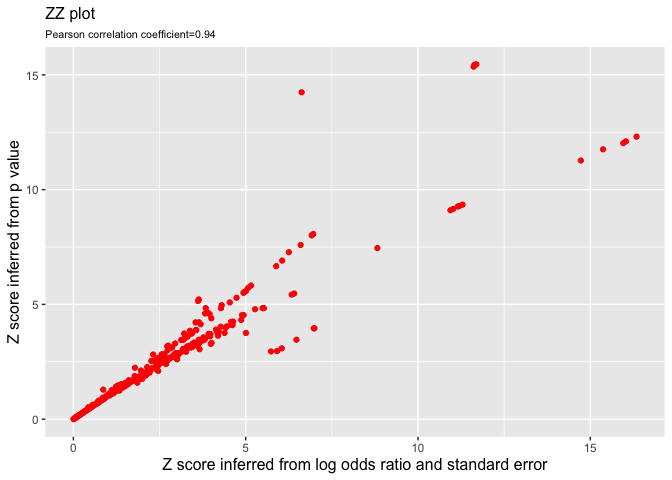
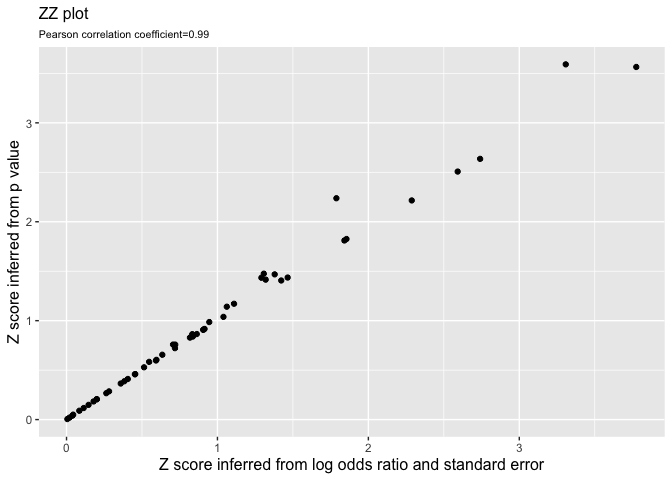
updated readme

diff --git a/README.md b/README.md
@@ -8,11 +8,12 @@
 <!-- badges: end -->
 
 mrQC is an R package for checking the accuracy of meta- and summary-data
-for outcome traits prior to their use in Mendelian randomisation
-analyses. For example, the package provides tools for checking that the
-reported effect allele and effect allele frequency columns are correct.
-It also checks for possible errors in the summary data that might
-introduce bias into downstream Mendelian randomisation analyses.
+for outcome traits prior to their use in two-sample Mendelian
+randomisation analyses. For example, the package provides tools for
+checking that the reported effect allele and effect allele frequency
+columns are correct. It also checks for possible errors in the summary
+data that might introduce bias into downstream Mendelian randomisation
+analyses.
 
 ## Installation
 
@@ -25,13 +26,14 @@ devtools::install_github("MRCIEU/mrQC")
 
 ## General overview
 
-This package exploits three groups of SNPs: 1) **A MAF 1KG reference
-set**. This is a set of 2297 SNPs that have the same minor allele across
-the 1000 genomes super populations and that have a minor allele
-frequency between 0.1 and 0.3; 2) **GWAS catalog top hits**. These are
-SNPs in the GWAS catalog that are strongly associated with the outcome
-trait of interest; and 3) the **exposure SNPs** or genetic instruments
-for the exposure of interest.
+This package exploits three groups of single nucleotide polymorphisms
+(SNPs) in order to identify potential errors or issues: 1) **A MAF 1KG
+reference set**. This is a set of 2297 SNPs that have the same minor
+allele across the 1000 genomes super populations and that have a minor
+allele frequency between 0.1 and 0.3; 2) **GWAS catalog top hits**.
+These are SNPs in the GWAS catalog that are strongly associated with the
+outcome trait of interest; and 3) the **exposure SNPs** or genetic
+instruments for the exposure of interest.
 
 The package performs 4 types of checks:
 
@@ -113,8 +115,8 @@ Our SNP list now contains the rsids for: 1) the GWAS catalog top hits,
 2) the MAF reference set and 3) the “exposure SNPs”. Next, we extract
 the summary associations statistics for these SNPs from the glioma
 outcome dataset. The example below has already been restricted to the
-SNPs of interest to save space. The extract\_snps function only works on
-MAC or linux operating systems.
+three sets of SNPs to save space and time. Note: the extract\_snps
+function only works on MAC or linux operating systems.
 
 ``` r
 File<-system.file("extdata", "glioma_test_dat.txt", package = "mrQC")
@@ -145,11 +147,13 @@ head(gli)
 #> 6        0.223 glioma_test_dat.txt
 ```
 
-In the above example, the summary data for glioma was stored locally on
-our machine in a tab separated text file. Alternatively, we could have
-sourced the outcome summary data from the Open GWAS project
+In the above example, we extracted the summary data for the SNPs of
+interest from a tab separated text file that was stored on our local
+machine. In practice, this might correspond to a file of GWAS results
+obtained via correspondence with a GWAS consortium. Alternatively, we
+could have sourced the outcome summary data from the Open GWAS project
 (<https://gwas.mrcieu.ac.uk/>). For example, to extract summary data for
-thyroid cancer we could
+thyroid cancer from Open GWAS we could
 run:
 
 ``` r
@@ -182,13 +186,13 @@ thy
 ```
 
 The make\_snplist() function returns a warning that no GWAS hits were
-found when searching for thyroid carcinoma as the reported trait.
-However the search was able to identify hits searching on the efo for
-thyroid carcinoma.
+found when searching for thyroid carcinoma in the GWAS catalog’s
+“reported trait” field. The search was, however, able to identify hits
+when searching for “thyroid carcinoma” in the efo field.
 
 Returning to the glioma example, having extracted the summary data for
-the SNP rsids of interest, we now need to format the summary data. This
-is to get the data into the expected format for the QC
+the three sets of SNPs, we now need to format the summary data. This is
+to get the data into the expected format for the QC
 functions.
 
 ``` r
@@ -230,6 +234,14 @@ head(Dat)
 #> 5 glioma     NA
 #> 6 glioma     NA
 ```
+
+In this example, the glioma results file contained columns for the odds
+ratio and 95% confidence intervals. In practice, the format of the
+effect size columns is highly variable across studies. For example, some
+studies may report the log odds ratio and its standard error or the odds
+ratio and P value without confidence intervals or a standard error. The
+format\_data() function accepts these and other effect size reporting
+formats. See ?format\_data() for more info.
 
 Now we are ready to perform some quality checks on the summary data
 
@@ -348,9 +360,7 @@ with minor allele frequency close to
 We next compare the predicted log odds ratio to the reported effect
 size, in order to identify other potential errors or issues. This step
 is applicable to summary data that has been derived from a case-control
-genome-wide association study. Since the function to derive the
-predicted log odds ratio can be a bit slow, we restrict the glioma
-example to just the first 20 SNPs.
+genome-wide association study.
 
 ``` r
 Pred<-predict_lnor_sh(dat=Dat)
@@ -415,7 +425,7 @@ Plot5_3
 After transforming the reported effect size to a log odds ratio scale,
 we now see a slope close to 1 for the relationship with the predicted
 log odds ratio. More generally, we suggest that any dataset with an
-unsual intercept or with a slope very different from 1 (e.g. \<0.8 or
+unusual intercept or with a slope very different from 1 (e.g. \<0.8 or
 \>1.2) should be investigated by the user for potential problems. In the
 glioma example, the slope and intercept look reasonably close to what
 we’d expect. In the kidney cancer example, the slope was very
@@ -462,15 +472,16 @@ Plot7_2
 
 The correlation between the Zp and Zb scores is less than 1, suggesting
 discordance between the reported P values and reported effect sizes,
-which is also clear from visual inspection of the plot. In this example,
-we have included three SNP sets (the GWAS catalog hits, the MAF
-reference set and the “exposure SNPs”. Let’s restrict the comparison to
-only the “exposure SNPs” and the GWAS catalog top
-hits.
+which is also clear from visual inspection of the plot. For example, 1
+SNP has a Z score close to 15 when estimated from the reported P value
+but a Z score close to 5 when estimated from the reported effect size
+and standard error. In this example, we have included three sets of SNPs
+(the GWAS catalog hits, the MAF reference set and the “exposure SNPs”.
+Let’s restrict the comparison to only the “exposure
+SNPs”.
 
 ``` r
-snplist<-make_snplist(efo = "lung carcinoma",snplist_user=instruments$rsid,ref1000G_superpops=FALSE)
-luc <- ieugwasr::associations(id="ieu-a-966",variants=snplist,proxies=0)  
+luc <- ieugwasr::associations(id="ieu-a-966",variants=instruments$rsid,proxies=0)  
 Dat<-format_data(dat=data.frame(luc,stringsAsFactors=F),outcome="Lung cancer",population="European",pmid=24880342,ncase=11348,ncontrol=15861,study="ILCCO",rsid="rsid",effect_allele="ea",other_allele="nea",lnor="beta",se="se",eaf="eaf",p="p",efo = "lung carcinoma")
 Plot7_3<-zz_plot(dat=Dat)
 Plot7_3
@@ -478,12 +489,12 @@ Plot7_3
 
 <img src="man/figures/README-make_zz_plot3-1.png" width="100%" />
 
-The correlation between the Zp and Zb scores is still less than 1,
-suggesting some discordance between the reported P values and reported
-effect sizes, which is also clear from visual inspection of the plot.
-For example, 1 SNP has a Z score close to 15 when estimated from the
-reported P value but a Z score close to 5 when estimated from the
-reported effect size and standard error.
+The correlation between the Zp and Zb scores is slightly less than 1,
+suggesting a small degree of discordance between the reported P values
+and reported effect sizes, which is also clear from visual inspection of
+the plot. For example one SNP has a Zp score \>2 and Zb score \<2. Some
+SNPs have P values a bit more extreme than you’d expect given the
+magnitude of the reported effect sizes and standard errors.
 
 ## Step 6. Combine all plots into a single report
 
@@ -496,3 +507,9 @@ combine_plots(Plot_list=Plot_list,out_file="~/qc_report.png")
 ```
 
 ![“qc\_report.png”](/man/figures/README-qc_report.png)
+
+Overall, we can conclude that the reported effect allele column in the
+glioma summary dataset actually corresponds to the non-effect allele.
+Therefore, in order to avoid effect allele coding errors in downstream
+Mendelian randomisation analyses, we need to set the effect allele to
+the reported non-effect allele.
